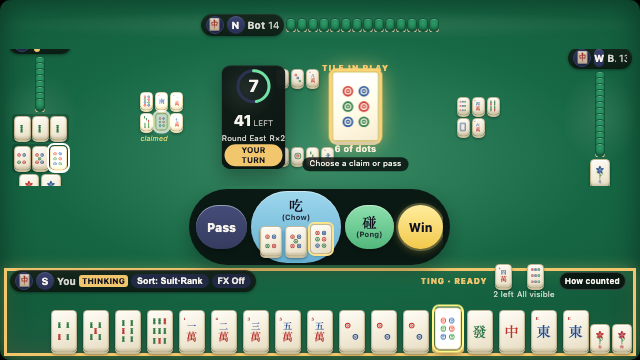
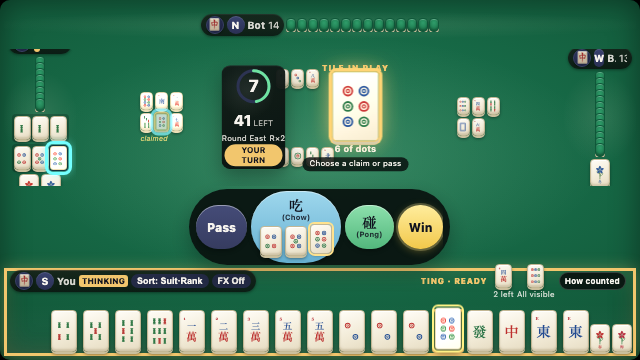
Make matching tiles obvious when a tile is selected
Selecting a tile already highlighted its other visible copies across the hand,
melds and discard rivers, but the cue was a 2px white outline sitting on cream
tile faces. At the certified 640x360 minimum — where scanning the table matters
most — it was almost invisible.

Give it a real ring: thicker outline, an outer glow so it lifts off the felt, a
dark inner contour so it stays legible against a pale tile face, and a raised
stacking order so a neighbour in a tight discard grid cannot clip the glow.

Deliberately cyan rather than the obvious gold. Gold is already carrying two
meanings on this table — the tile you have selected, and the latest discard,
whose .discard-slot-recent ring and glow are near-identical to what a gold match
cue would be. A third gold meaning would have made "just discarded" and "matches
what you're holding" indistinguishable, which is worse than the faint cue it
replaced. Cyan is unused here and separates cleanly from both the gold accents
and the green felt. The selected tile keeps its gold identity: its own rule is
more specific, so gold reads as "the one in your hand" and cyan as "its copies
out there".

A single short bloom plays when matches appear, to pull the eye to copies
outside where the player is already looking — one iteration, far under the §9.9
three-flashes-per-second ceiling, and removed entirely under prefers-reduced-
motion, for whom the static ring is the whole cue.
[…]

diff --git a/client/match-table.css b/client/match-table.css
@@ -362,11 +362,56 @@ body {
 }
 
 /* §9.5: "Selected-tile matches receive both outline and brightness change,
-   never color alone." Outline + filter, not a color-only cue. */
+   never color alone." Outline + filter, not a color-only cue.
+
+   The previous cue was a thin white ring, which had to compete with the cream
+   tile faces it sat on — at the certified 640x360 minimum the match was almost
+   invisible, exactly where scanning matters most.
+
+   Cyan rather than the obvious gold: gold is already overloaded on this table,
+   marking both the tile you have selected (.local-hand-tile-selected) and the
+   latest discard (.discard-slot-recent, which carries a near-identical ring and
+   glow). Reusing it for a third meaning would have made "this is the tile just
+   discarded" and "this matches what you are holding" indistinguishable. Cyan is
+   unused here and separates cleanly from both the gold accents and the green
+   felt. The dark inner ring keeps it legible against a pale tile face, and
+   lifting the stacking order stops a neighbouring tile in a tight discard grid
+   from clipping the glow. */
 .tile-match {
-  filter: brightness(1.25);
-  outline: 2px solid #fff;
-  outline-offset: 1px;
+  border-radius: 3px;
+  box-shadow:
+    0 0 0 1px rgb(10 30 38 / 88%),
+    0 0 10px 3px rgb(95 217 240 / 75%);
+  filter: brightness(1.22);
+  outline: 3px solid #5fd9f0;
+  outline-offset: 2px;
+  position: relative;
+  z-index: 2;
+}
+
+/* A single short bloom when a match appears, so the eye is pulled to copies
+   sitting outside where the player is already looking. One iteration, well
+   under the §9.9 three-flashes-per-second ceiling, and removed entirely for
+   players who ask for reduced motion — for whom the static ring above is
+   already the full cue. */
+@media (prefers-reduced-motion: no-preference) {
+  .tile-match {
+    animation: tile-match-bloom 0.45s ease-out 1;
+  }
+}
+
+@keyframes tile-match-bloom {
+  from {
+    box-shadow:
+      0 0 0 1px rgb(10 30 38 / 88%),
+      0 0 0 0 rgb(95 217 240 / 95%);
+  }
+
+  to {
+    box-shadow:
+      0 0 0 1px rgb(10 30 38 / 88%),
+      0 0 10px 3px rgb(95 217 240 / 75%);
+  }
 }
 
 .wait-panel {
